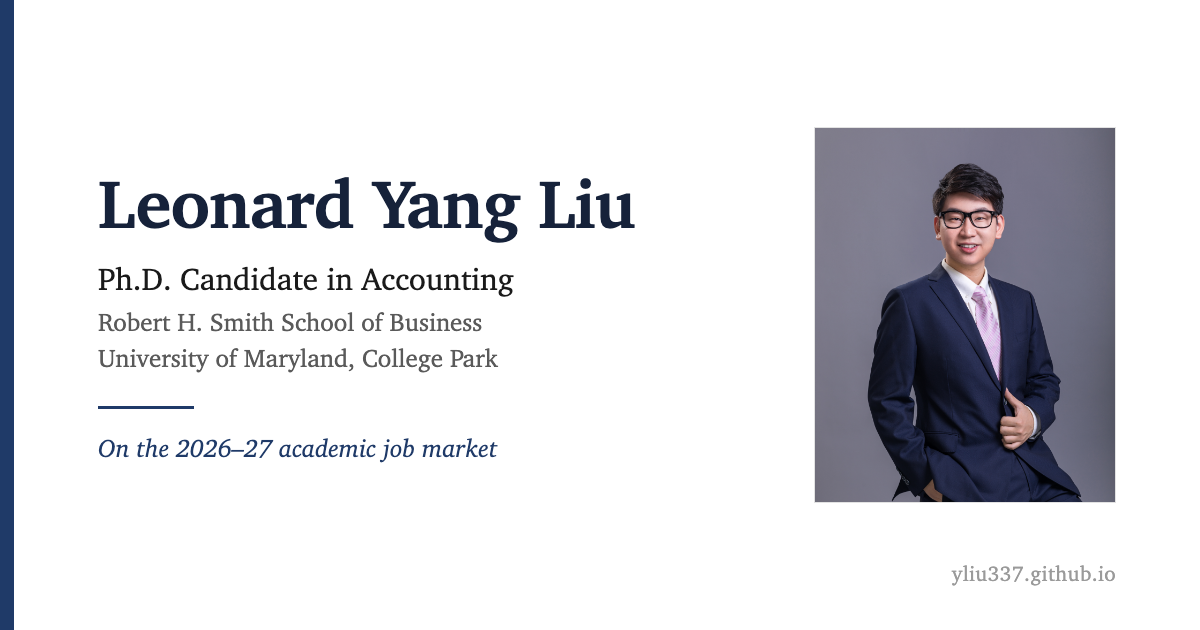
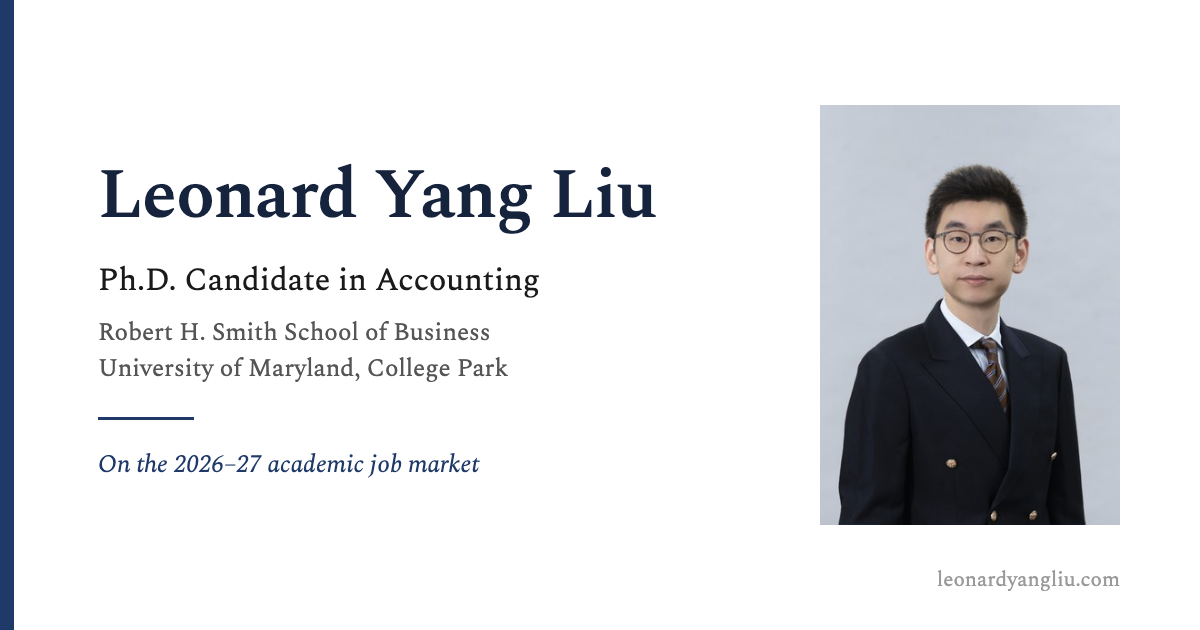
Share card: blue-gray headshot, leonardyangliu.com; add its template and render script

diff --git a/tools/og_image.html b/tools/og_image.html
@@ -1,0 +1,30 @@
+<!doctype html>
+<!-- Social-share card (og:image), 1200x630. Rendered by tools/make_og_image.sh; photo = images/headshot.jpg. -->
+<html><head><meta charset="utf-8">
+<style>
+@font-face { font-family: 'Spectral'; src: url('../fonts/Spectral-Regular.woff2') format('woff2'); font-weight: 400; }
+@font-face { font-family: 'Spectral'; src: url('../fonts/Spectral-Italic.woff2') format('woff2'); font-weight: 400; font-style: italic; }
+@font-face { font-family: 'Spectral'; src: url('../fonts/Spectral-SemiBold.woff2') format('woff2'); font-weight: 600; }
+html, body { margin: 0; width: 1200px; height: 630px; background: #fff; overflow: hidden; }
+body { position: relative; font-family: 'Spectral', serif; color: #1a1a1a; }
+.bar { position: absolute; left: 0; top: 0; width: 14px; height: 630px; background: #1f3a68; }
+.text { position: absolute; left: 98px; top: 160px; width: 640px; }
+h1 { font-size: 70px; font-weight: 600; margin: 0 0 22px; line-height: 1.05; color: #16233d; letter-spacing: -0.01em; }
+.role { font-size: 32px; margin: 0 0 10px; }
+.aff { font-size: 25px; color: #555; line-height: 1.45; margin: 0; }
+.rule { width: 96px; height: 3px; background: #1f3a68; margin: 30px 0 26px; }
+.market { font-size: 25px; font-style: italic; color: #1f3a68; margin: 0; }
+img { position: absolute; left: 820px; top: 105px; width: 300px; height: 420px; }
+.url { position: absolute; right: 80px; bottom: 34px; font-size: 21px; color: #9a9a9a; }
+</style></head><body>
+<div class="bar"></div>
+<div class="text">
+  <h1>Leonard Yang Liu</h1>
+  <p class="role">Ph.D. Candidate in Accounting</p>
+  <p class="aff">Robert H. Smith School of Business<br>University of Maryland, College Park</p>
+  <div class="rule"></div>
+  <p class="market">On the 2026&ndash;27 academic job market</p>
+</div>
+<img src="../images/headshot.jpg" alt="">
+<div class="url">leonardyangliu.com</div>
+</body></html>

diff --git a/hobbies/classical-music/index.html b/hobbies/classical-music/index.html
@@ -22,14 +22,14 @@
     <meta property="og:title" content="Classical Music — Leonard Yang Liu">
     <meta property="og:description" content="At the piano since six and a classical music fan ever since, drawn above all to the Romantic era: Rachmaninoff&#x27;s Second and Third Concertos, the Second Symphony, and Beethoven.">
     <meta property="og:url" content="https://leonardyangliu.com/hobbies/classical-music/">
-    <meta property="og:image" content="https://leonardyangliu.com/og-image.png">
+    <meta property="og:image" content="https://leonardyangliu.com/og-image.png?v=d83e9f6d">
     <meta property="og:image:width" content="1200">
     <meta property="og:image:height" content="630">
     <meta property="og:image:alt" content="Leonard Yang Liu, Ph.D. Candidate in Accounting, University of Maryland">
     <meta name="twitter:card" content="summary_large_image">
     <meta name="twitter:title" content="Classical Music — Leonard Yang Liu">
     <meta name="twitter:description" content="At the piano since six and a classical music fan ever since, drawn above all to the Romantic era: Rachmaninoff&#x27;s Second and Third Concertos, the Second Symphony, and Beethoven.">
-    <meta name="twitter:image" content="https://leonardyangliu.com/og-image.png">
+    <meta name="twitter:image" content="https://leonardyangliu.com/og-image.png?v=d83e9f6d">
 
     <link rel="preload" href="/fonts/Spectral-Regular.woff2" as="font" type="font/woff2" crossorigin>
     <link rel="preload" href="/fonts/Spectral-SemiBold.woff2" as="font" type="font/woff2" crossorigin>

diff --git a/index.html b/index.html
@@ -22,14 +22,14 @@
     <meta property="og:title" content="Leonard Yang Liu — Accounting Ph.D. Candidate, University of Maryland">
     <meta property="og:description" content="Leonard Yang Liu, Accounting Ph.D. candidate at the University of Maryland (Smith). Research on AI and generative AI in capital markets, financial analysts, and earnings forecasts. On the 2026–27 job market.">
     <meta property="og:url" content="https://leonardyangliu.com/">
-    <meta property="og:image" content="https://leonardyangliu.com/og-image.png">
+    <meta property="og:image" content="https://leonardyangliu.com/og-image.png?v=d83e9f6d">
     <meta property="og:image:width" content="1200">
     <meta property="og:image:height" content="630">
     <meta property="og:image:alt" content="Leonard Yang Liu, Ph.D. Candidate in Accounting, University of Maryland">
     <meta name="twitter:card" content="summary_large_image">
     <meta name="twitter:title" content="Leonard Yang Liu — Accounting Ph.D. Candidate, University of Maryland">
     <meta name="twitter:description" content="Leonard Yang Liu, Accounting Ph.D. candidate at the University of Maryland (Smith). Research on AI and generative AI in capital markets, financial analysts, and earnings forecasts. On the 2026–27 job market.">
-    <meta name="twitter:image" content="https://leonardyangliu.com/og-image.png">
+    <meta name="twitter:image" content="https://leonardyangliu.com/og-image.png?v=d83e9f6d">
     <script type="application/ld+json">
     {
       "@context": "https://schema.org",

diff --git a/research/index.html b/research/index.html
@@ -22,14 +22,14 @@
     <meta property="og:title" content="Research — Leonard Yang Liu">
     <meta property="og:description" content="Research by Leonard Yang Liu on generative AI and financial information in capital markets: consensus forecasts, sell-side analysts, crowdsourced forecasts, and CFO communication.">
     <meta property="og:url" content="https://leonardyangliu.com/research/">
-    <meta property="og:image" content="https://leonardyangliu.com/og-image.png">
+    <meta property="og:image" content="https://leonardyangliu.com/og-image.png?v=d83e9f6d">
     <meta property="og:image:width" content="1200">
     <meta property="og:image:height" content="630">
     <meta property="og:image:alt" content="Leonard Yang Liu, Ph.D. Candidate in Accounting, University of Maryland">
     <meta name="twitter:card" content="summary_large_image">
     <meta name="twitter:title" content="Research — Leonard Yang Liu">
     <meta name="twitter:description" content="Research by Leonard Yang Liu on generative AI and financial information in capital markets: consensus forecasts, sell-side analysts, crowdsourced forecasts, and CFO communication.">
-    <meta name="twitter:image" content="https://leonardyangliu.com/og-image.png">
+    <meta name="twitter:image" content="https://leonardyangliu.com/og-image.png?v=d83e9f6d">
 
     <link rel="preload" href="/fonts/Spectral-Regular.woff2" as="font" type="font/woff2" crossorigin>
     <link rel="preload" href="/fonts/Spectral-SemiBold.woff2" as="font" type="font/woff2" crossorigin>

diff --git a/teaching/index.html b/teaching/index.html
@@ -22,14 +22,14 @@
     <meta property="og:title" content="Teaching — Leonard Yang Liu">
     <meta property="og:description" content="Teaching record of Leonard Yang Liu: instructor of record for Principles of Accounting I at the University of Maryland, with course evaluations.">
     <meta property="og:url" content="https://leonardyangliu.com/teaching/">
-    <meta property="og:image" content="https://leonardyangliu.com/og-image.png">
+    <meta property="og:image" content="https://leonardyangliu.com/og-image.png?v=d83e9f6d">
     <meta property="og:image:width" content="1200">
     <meta property="og:image:height" content="630">
     <meta property="og:image:alt" content="Leonard Yang Liu, Ph.D. Candidate in Accounting, University of Maryland">
     <meta name="twitter:card" content="summary_large_image">
     <meta name="twitter:title" content="Teaching — Leonard Yang Liu">
     <meta name="twitter:description" content="Teaching record of Leonard Yang Liu: instructor of record for Principles of Accounting I at the University of Maryland, with course evaluations.">
-    <meta name="twitter:image" content="https://leonardyangliu.com/og-image.png">
+    <meta name="twitter:image" content="https://leonardyangliu.com/og-image.png?v=d83e9f6d">
 
     <link rel="preload" href="/fonts/Spectral-Regular.woff2" as="font" type="font/woff2" crossorigin>
     <link rel="preload" href="/fonts/Spectral-SemiBold.woff2" as="font" type="font/woff2" crossorigin>

diff --git a/hobbies/pc-building/index.html b/hobbies/pc-building/index.html
@@ -22,14 +22,14 @@
     <meta property="og:title" content="PC Building — Leonard Yang Liu">
     <meta property="og:description" content="Ten-plus years of building gaming PCs and research workstations, with photos of past builds and an open offer of parts advice.">
     <meta property="og:url" content="https://leonardyangliu.com/hobbies/pc-building/">
-    <meta property="og:image" content="https://leonardyangliu.com/og-image.png">
+    <meta property="og:image" content="https://leonardyangliu.com/og-image.png?v=d83e9f6d">
     <meta property="og:image:width" content="1200">
     <meta property="og:image:height" content="630">
     <meta property="og:image:alt" content="Leonard Yang Liu, Ph.D. Candidate in Accounting, University of Maryland">
     <meta name="twitter:card" content="summary_large_image">
     <meta name="twitter:title" content="PC Building — Leonard Yang Liu">
     <meta name="twitter:description" content="Ten-plus years of building gaming PCs and research workstations, with photos of past builds and an open offer of parts advice.">
-    <meta name="twitter:image" content="https://leonardyangliu.com/og-image.png">
+    <meta name="twitter:image" content="https://leonardyangliu.com/og-image.png?v=d83e9f6d">
 
     <link rel="preload" href="/fonts/Spectral-Regular.woff2" as="font" type="font/woff2" crossorigin>
     <link rel="preload" href="/fonts/Spectral-SemiBold.woff2" as="font" type="font/woff2" crossorigin>

diff --git a/_layout.html b/_layout.html
@@ -22,14 +22,14 @@
     <meta property="og:title" content="{{OG_TITLE}}">
     <meta property="og:description" content="{{OG_DESCRIPTION}}">
     <meta property="og:url" content="https://leonardyangliu.com{{PATH}}">
-    <meta property="og:image" content="https://leonardyangliu.com/og-image.png">
+    <meta property="og:image" content="https://leonardyangliu.com/og-image.png?v=d83e9f6d">
     <meta property="og:image:width" content="1200">
     <meta property="og:image:height" content="630">
     <meta property="og:image:alt" content="Leonard Yang Liu, Ph.D. Candidate in Accounting, University of Maryland">
     <meta name="twitter:card" content="summary_large_image">
     <meta name="twitter:title" content="{{OG_TITLE}}">
     <meta name="twitter:description" content="{{OG_DESCRIPTION}}">
-    <meta name="twitter:image" content="https://leonardyangliu.com/og-image.png">
+    <meta name="twitter:image" content="https://leonardyangliu.com/og-image.png?v=d83e9f6d">
 {{HEAD_EXTRA}}
     <link rel="preload" href="/fonts/Spectral-Regular.woff2" as="font" type="font/woff2" crossorigin>
     <link rel="preload" href="/fonts/Spectral-SemiBold.woff2" as="font" type="font/woff2" crossorigin>
